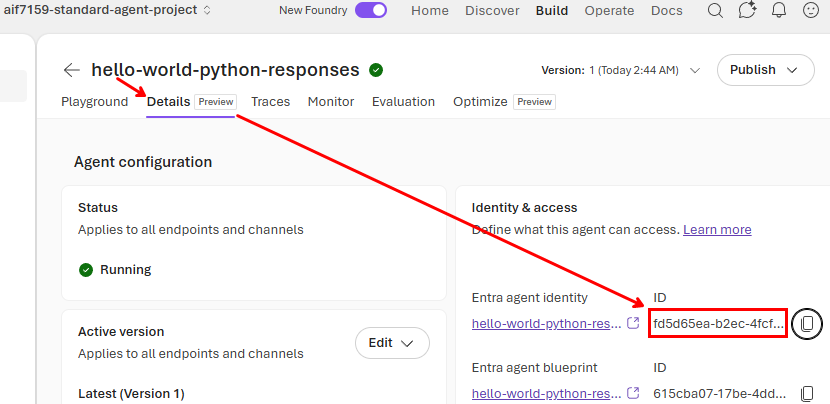
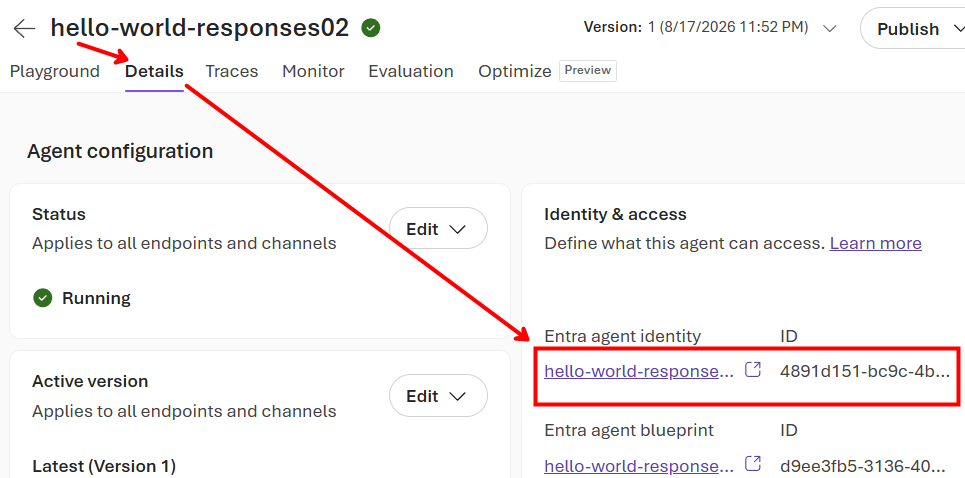
README.md updated

diff --git a/agents/README.md b/agents/README.md
@@ -1581,7 +1581,7 @@ AGENT_HELLO_WORLD_PYTHON_RESPONSES_VERSION=1
 
 ### 16.5 Granting the deployed agent access to Key Vault
 
-The agent's **Egress identity** (see [Chapter 7](#7-storing-secrets-key-vault-and-managed-identity)) only exists **after** the deployment. Now that the agent is deployed, retrieve its **Entra agent identity** from the Foundry portal → select the agent → **Details** → copy the ID:
+The agent's **Egress identity** (see [Chapter 7](#7-storing-secrets-key-vault-and-managed-identity)) only exists **after** the deployment. We already printed it above, in fact we can see that it's the same value `4891d151...` that we can even retrieve as **Entra agent identity** from the Foundry portal → select the agent → **Details** → copy the ID:
 
 ![Microsoft Foundry portal — agent hello-world-python-responses (Running, Version 1), Details tab → Agent configuration. Under "Identity & access", the "Entra agent identity" ID (fd5d65ea-b2ec-4fcf-…) is highlighted with a copy button, alongside the "Entra agent blueprint" ID.](images/22-deployed-agent-identity-details.png)
 
